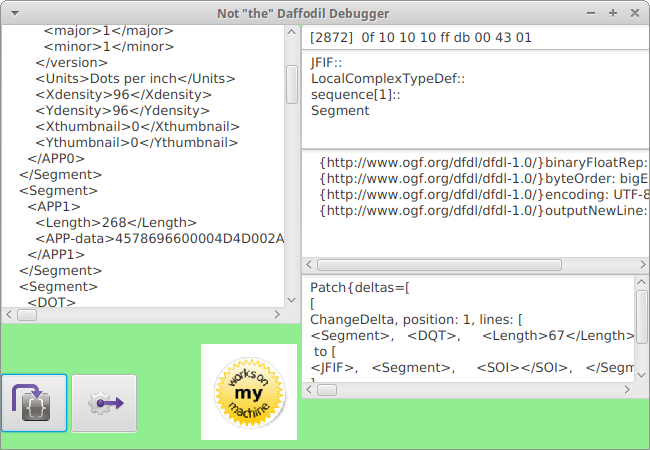
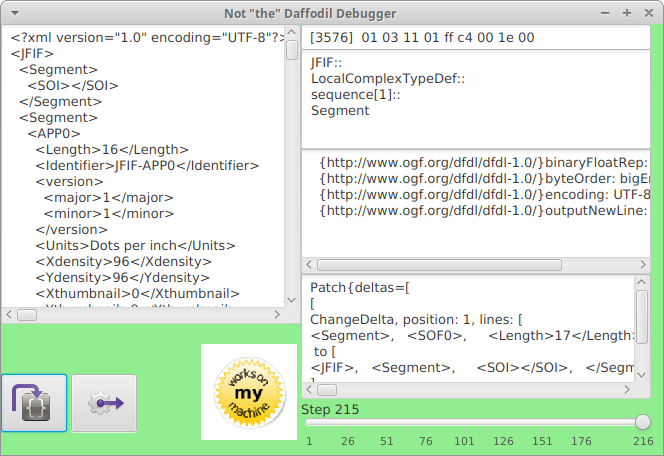
time traveling slider

Changed region(s): [[0.0, 0.0, 1.0, 0.9956], [0.0, 0.8089, 0.2154, 0.9644]]

diff --git a/README.md b/README.md
@@ -19,6 +19,7 @@ Prototypes shouldnt be shiny :)
   - display the in-scope variables and their values
 - stateful views
   - display the diff of current infoset against previous step
+  - time traveling slider
 - Uses a snapshot from the current Daffodil master branch.
 
 ### model
